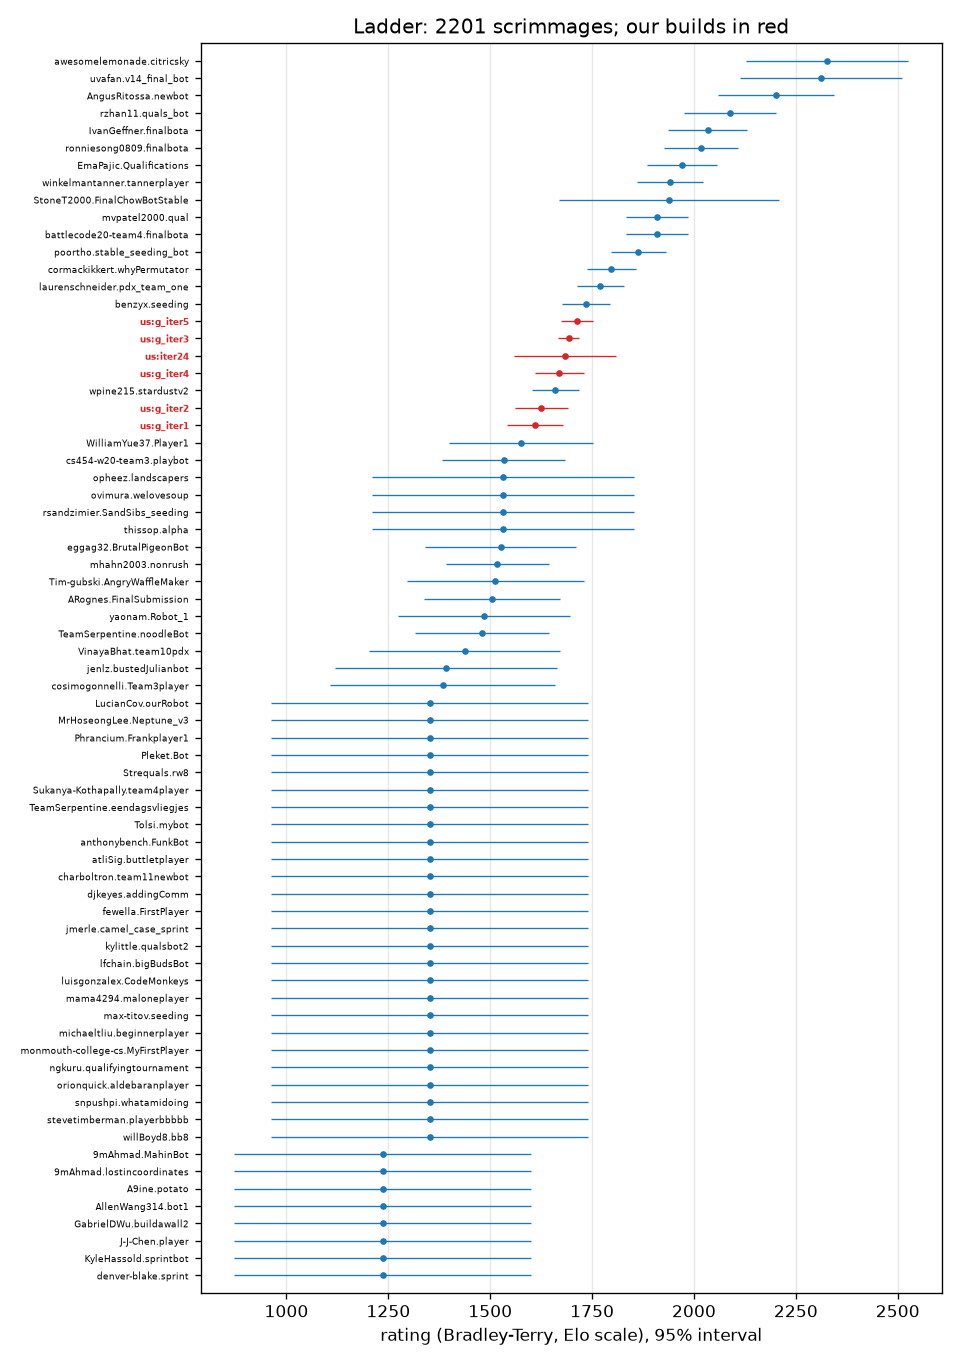
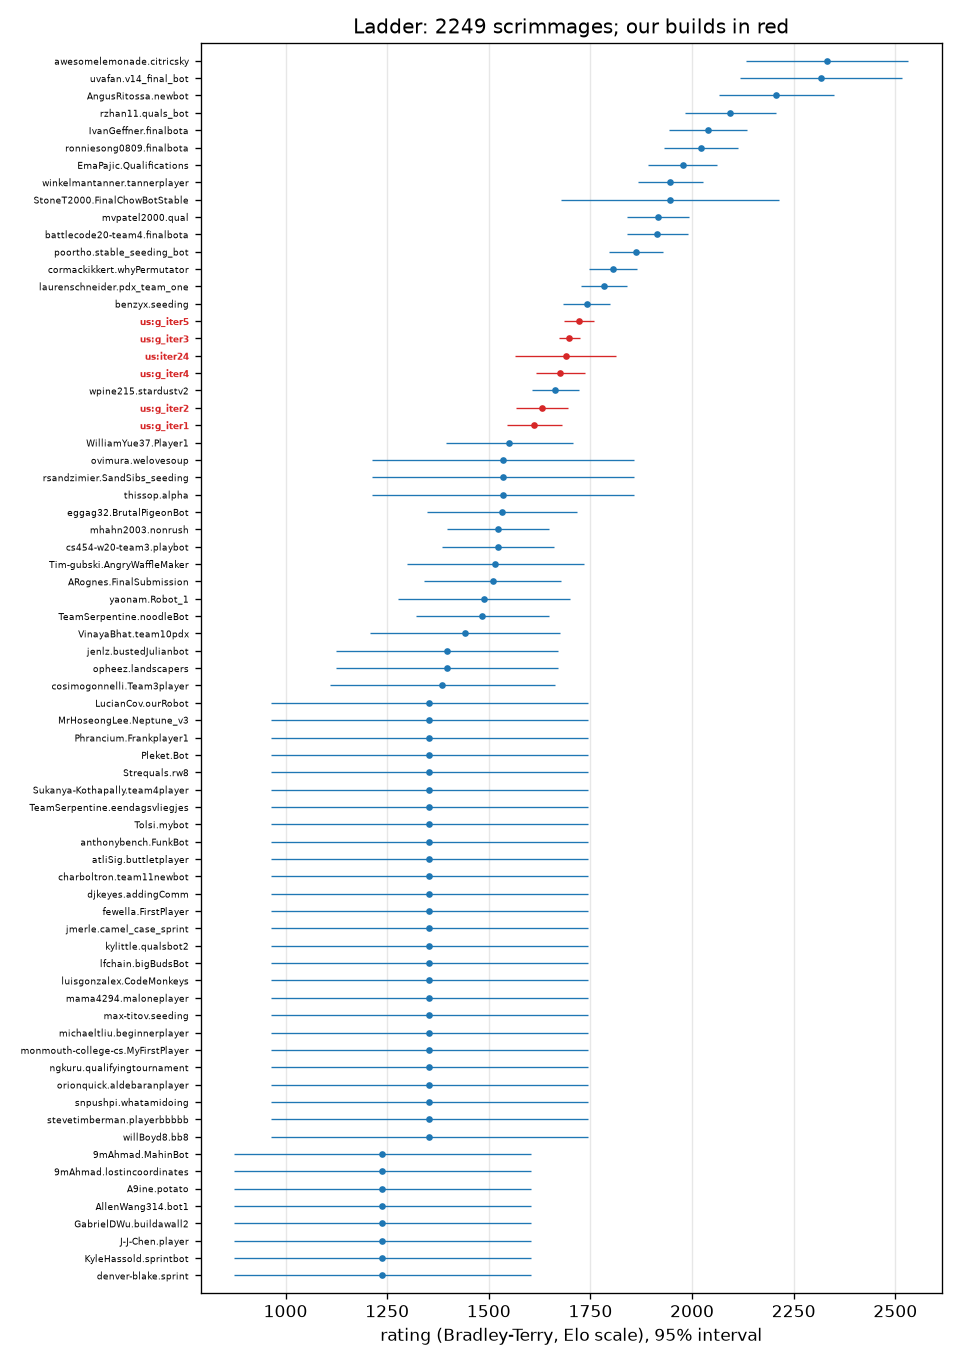
Block 44 progress files
Claude-Session: https://claude.ai/code/session_015tNyF5ucwWW1mudpEQTT25

diff --git a/progress/ELO.md b/progress/ELO.md
@@ -1,88 +1,88 @@
 # Ladder
 
-2201 scrimmages (ours only), rated by a batch Bradley-Terry fit on the Elo scale (`tools/elolib.py`); each of our builds is its own player. 65 of 65 ladder bots met.
+2249 scrimmages (ours only), rated by a batch Bradley-Terry fit on the Elo scale (`tools/elolib.py`); each of our builds is its own player. 65 of 65 ladder bots met.
 
 Our builds (rating +- 95%; field score = expected score against every ladder bot, one game each):
 
 | build | rating | rank | games | record | field score |
 |---|---|---|---|---|---|
-| g_iter5 | 1714 +- 40 | 16 of 71 | 432 | 221-211 | 70.7% |
-| g_iter3 | 1692 +- 27 | 17 of 71 | 1116 | 244-872 | 69.2% |
-| iter24 | 1684 +- 124 | 18 of 71 | 48 | 11-37 | 68.5% |
-| g_iter4 | 1670 +- 60 | 19 of 71 | 228 | 46-182 | 67.4% |
-| g_iter2 | 1625 +- 64 | 21 of 71 | 204 | 47-157 | 63.8% |
-| g_iter1 | 1610 +- 68 | 22 of 71 | 173 | 97-76 | 62.5% |
+| g_iter5 | 1722 +- 37 | 16 of 71 | 480 | 250-230 | 71.3% |
+| g_iter3 | 1698 +- 27 | 17 of 71 | 1116 | 244-872 | 69.6% |
+| iter24 | 1689 +- 124 | 18 of 71 | 48 | 11-37 | 68.9% |
+| g_iter4 | 1675 +- 60 | 19 of 71 | 228 | 46-182 | 67.9% |
+| g_iter2 | 1630 +- 65 | 21 of 71 | 204 | 47-157 | 64.3% |
+| g_iter1 | 1612 +- 68 | 22 of 71 | 173 | 97-76 | 62.7% |
 
 | rank | player | rating | +- 95% | games | W-L |
 |---|---|---|---|---|---|
-| 1 | awesomelemonade.citricsky | 2327 | 199 | 124 | 122-2 |
-| 2 | uvafan.v14_final_bot | 2312 | 199 | 114 | 112-2 |
-| 3 | AngusRitossa.newbot | 2202 | 143 | 124 | 119-5 |
-| 4 | rzhan11.quals_bot | 2089 | 113 | 113 | 104-9 |
-| 5 | IvanGeffner.finalbota | 2034 | 97 | 119 | 106-13 |
-| 6 | ronniesong0809.finalbota | 2017 | 91 | 124 | 109-15 |
-| 7 | EmaPajic.Qualifications | 1971 | 85 | 118 | 100-18 |
-| 8 | winkelmantanner.tannerplayer | 1940 | 80 | 118 | 97-21 |
-| 9 | StoneT2000.FinalChowBotStable | 1939 | 269 | 9 | 8-1 |
-| 10 | mvpatel2000.qual | 1910 | 77 | 117 | 93-24 |
-| 11 | battlecode20-team4.finalbota | 1909 | 75 | 121 | 96-25 |
-| 12 | poortho.stable_seeding_bot | 1864 | 68 | 128 | 95-33 |
-| 13 | cormackikkert.whyPermutator | 1797 | 60 | 143 | 94-49 |
-| 14 | laurenschneider.pdx_team_one | 1770 | 58 | 145 | 90-55 |
-| 15 | benzyx.seeding | 1736 | 59 | 134 | 77-57 |
-| 16 | **us:g_iter5** | 1714 | 40 | 432 | 221-211 |
-| 17 | **us:g_iter3** | 1692 | 27 | 1116 | 244-872 |
-| 18 | **us:iter24** | 1684 | 124 | 48 | 11-37 |
-| 19 | **us:g_iter4** | 1670 | 60 | 228 | 46-182 |
-| 20 | wpine215.stardustv2 | 1660 | 59 | 135 | 63-72 |
-| 21 | **us:g_iter2** | 1625 | 64 | 204 | 47-157 |
-| 22 | **us:g_iter1** | 1610 | 68 | 173 | 97-76 |
-| 23 | WilliamYue37.Player1 | 1575 | 177 | 15 | 5-10 |
-| 24 | cs454-w20-team3.playbot | 1533 | 150 | 22 | 7-15 |
-| 25 | opheez.landscapers | 1532 | 322 | 3 | 1-2 |
-| 26 | ovimura.welovesoup | 1532 | 322 | 3 | 1-2 |
-| 27 | rsandzimier.SandSibs_seeding | 1532 | 322 | 3 | 1-2 |
-| 28 | thissop.alpha | 1532 | 322 | 3 | 1-2 |
-| 29 | eggag32.BrutalPigeonBot | 1526 | 185 | 15 | 4-11 |
-| 30 | mhahn2003.nonrush | 1518 | 126 | 33 | 10-23 |
-| 31 | Tim-gubski.AngryWaffleMaker | 1513 | 217 | 9 | 3-6 |
-| 32 | ARognes.FinalSubmission | 1504 | 168 | 19 | 5-14 |
-| 33 | yaonam.Robot_1 | 1485 | 211 | 10 | 3-7 |
-| 34 | TeamSerpentine.noodleBot | 1479 | 164 | 21 | 5-16 |
-| 35 | VinayaBhat.team10pdx | 1437 | 234 | 9 | 2-7 |
-| 36 | jenlz.bustedJulianbot | 1391 | 272 | 9 | 1-8 |
-| 37 | cosimogonnelli.Team3player | 1383 | 277 | 7 | 1-6 |
-| 38 | LucianCov.ourRobot | 1351 | 389 | 3 | 0-3 |
-| 39 | MrHoseongLee.Neptune_v3 | 1351 | 389 | 3 | 0-3 |
-| 40 | Phrancium.Frankplayer1 | 1351 | 389 | 3 | 0-3 |
-| 41 | Pleket.Bot | 1351 | 389 | 3 | 0-3 |
-| 42 | Strequals.rw8 | 1351 | 389 | 3 | 0-3 |
-| 43 | Sukanya-Kothapally.team4player | 1351 | 389 | 3 | 0-3 |
-| 44 | TeamSerpentine.eendagsvliegjes | 1351 | 389 | 3 | 0-3 |
-| 45 | Tolsi.mybot | 1351 | 389 | 3 | 0-3 |
-| 46 | anthonybench.FunkBot | 1351 | 389 | 3 | 0-3 |
-| 47 | atliSig.buttletplayer | 1351 | 389 | 3 | 0-3 |
-| 48 | charboltron.team11newbot | 1351 | 389 | 3 | 0-3 |
-| 49 | djkeyes.addingComm | 1351 | 389 | 3 | 0-3 |
-| 50 | fewella.FirstPlayer | 1351 | 389 | 3 | 0-3 |
-| 51 | jmerle.camel_case_sprint | 1351 | 389 | 3 | 0-3 |
-| 52 | kylittle.qualsbot2 | 1351 | 389 | 3 | 0-3 |
-| 53 | lfchain.bigBudsBot | 1351 | 389 | 3 | 0-3 |
-| 54 | luisgonzalex.CodeMonkeys | 1351 | 389 | 3 | 0-3 |
-| 55 | mama4294.maloneplayer | 1351 | 389 | 3 | 0-3 |
-| 56 | max-titov.seeding | 1351 | 389 | 3 | 0-3 |
-| 57 | michaeltliu.beginnerplayer | 1351 | 389 | 3 | 0-3 |
-| 58 | monmouth-college-cs.MyFirstPlayer | 1351 | 389 | 3 | 0-3 |
-| 59 | ngkuru.qualifyingtournament | 1351 | 389 | 3 | 0-3 |
-| 60 | orionquick.aldebaranplayer | 1351 | 389 | 3 | 0-3 |
-| 61 | snpushpi.whatamidoing | 1351 | 389 | 3 | 0-3 |
-| 62 | stevetimberman.playerbbbbb | 1351 | 389 | 3 | 0-3 |
-| 63 | willBoyd8.bb8 | 1351 | 389 | 3 | 0-3 |
-| 64 | 9mAhmad.MahinBot | 1236 | 364 | 7 | 0-7 |
-| 65 | 9mAhmad.lostincoordinates | 1236 | 364 | 7 | 0-7 |
-| 66 | A9ine.potato | 1236 | 364 | 7 | 0-7 |
-| 67 | AllenWang314.bot1 | 1236 | 364 | 7 | 0-7 |
-| 68 | GabrielDWu.buildawall2 | 1236 | 364 | 7 | 0-7 |
-| 69 | J-J-Chen.player | 1236 | 364 | 7 | 0-7 |
-| 70 | KyleHassold.sprintbot | 1236 | 364 | 7 | 0-7 |
-| 71 | denver-blake.sprint | 1236 | 364 | 7 | 0-7 |
+| 1 | awesomelemonade.citricsky | 2333 | 199 | 124 | 122-2 |
+| 2 | uvafan.v14_final_bot | 2318 | 199 | 114 | 112-2 |
+| 3 | AngusRitossa.newbot | 2208 | 143 | 124 | 119-5 |
+| 4 | rzhan11.quals_bot | 2094 | 113 | 113 | 104-9 |
+| 5 | IvanGeffner.finalbota | 2039 | 97 | 119 | 106-13 |
+| 6 | ronniesong0809.finalbota | 2023 | 91 | 124 | 109-15 |
+| 7 | EmaPajic.Qualifications | 1977 | 85 | 118 | 100-18 |
+| 8 | winkelmantanner.tannerplayer | 1946 | 81 | 118 | 97-21 |
+| 9 | StoneT2000.FinalChowBotStable | 1946 | 269 | 9 | 8-1 |
+| 10 | mvpatel2000.qual | 1916 | 77 | 117 | 93-24 |
+| 11 | battlecode20-team4.finalbota | 1915 | 75 | 121 | 96-25 |
+| 12 | poortho.stable_seeding_bot | 1862 | 66 | 134 | 98-36 |
+| 13 | cormackikkert.whyPermutator | 1805 | 59 | 149 | 98-51 |
+| 14 | laurenschneider.pdx_team_one | 1784 | 57 | 151 | 95-56 |
+| 15 | benzyx.seeding | 1741 | 58 | 140 | 80-60 |
+| 16 | **us:g_iter5** | 1722 | 37 | 480 | 250-230 |
+| 17 | **us:g_iter3** | 1698 | 27 | 1116 | 244-872 |
+| 18 | **us:iter24** | 1689 | 124 | 48 | 11-37 |
+| 19 | **us:g_iter4** | 1675 | 60 | 228 | 46-182 |
+| 20 | wpine215.stardustv2 | 1664 | 57 | 141 | 65-76 |
+| 21 | **us:g_iter2** | 1630 | 65 | 204 | 47-157 |
+| 22 | **us:g_iter1** | 1612 | 68 | 173 | 97-76 |
+| 23 | WilliamYue37.Player1 | 1551 | 157 | 21 | 6-15 |
+| 24 | ovimura.welovesoup | 1535 | 323 | 3 | 1-2 |
+| 25 | rsandzimier.SandSibs_seeding | 1535 | 323 | 3 | 1-2 |
+| 26 | thissop.alpha | 1535 | 323 | 3 | 1-2 |
+| 27 | eggag32.BrutalPigeonBot | 1532 | 186 | 15 | 4-11 |
+| 28 | mhahn2003.nonrush | 1523 | 126 | 33 | 10-23 |
+| 29 | cs454-w20-team3.playbot | 1523 | 138 | 28 | 8-20 |
+| 30 | Tim-gubski.AngryWaffleMaker | 1516 | 217 | 9 | 3-6 |
+| 31 | ARognes.FinalSubmission | 1510 | 168 | 19 | 5-14 |
+| 32 | yaonam.Robot_1 | 1488 | 212 | 10 | 3-7 |
+| 33 | TeamSerpentine.noodleBot | 1484 | 165 | 21 | 5-16 |
+| 34 | VinayaBhat.team10pdx | 1441 | 234 | 9 | 2-7 |
+| 35 | jenlz.bustedJulianbot | 1396 | 273 | 9 | 1-8 |
+| 36 | opheez.landscapers | 1396 | 273 | 9 | 1-8 |
+| 37 | cosimogonnelli.Team3player | 1385 | 277 | 7 | 1-6 |
+| 38 | LucianCov.ourRobot | 1353 | 390 | 3 | 0-3 |
+| 39 | MrHoseongLee.Neptune_v3 | 1353 | 390 | 3 | 0-3 |
+| 40 | Phrancium.Frankplayer1 | 1353 | 390 | 3 | 0-3 |
+| 41 | Pleket.Bot | 1353 | 390 | 3 | 0-3 |
+| 42 | Strequals.rw8 | 1353 | 390 | 3 | 0-3 |
+| 43 | Sukanya-Kothapally.team4player | 1353 | 390 | 3 | 0-3 |
+| 44 | TeamSerpentine.eendagsvliegjes | 1353 | 390 | 3 | 0-3 |
+| 45 | Tolsi.mybot | 1353 | 390 | 3 | 0-3 |
+| 46 | anthonybench.FunkBot | 1353 | 390 | 3 | 0-3 |
+| 47 | atliSig.buttletplayer | 1353 | 390 | 3 | 0-3 |
+| 48 | charboltron.team11newbot | 1353 | 390 | 3 | 0-3 |
+| 49 | djkeyes.addingComm | 1353 | 390 | 3 | 0-3 |
+| 50 | fewella.FirstPlayer | 1353 | 390 | 3 | 0-3 |
+| 51 | jmerle.camel_case_sprint | 1353 | 390 | 3 | 0-3 |
+| 52 | kylittle.qualsbot2 | 1353 | 390 | 3 | 0-3 |
+| 53 | lfchain.bigBudsBot | 1353 | 390 | 3 | 0-3 |
+| 54 | luisgonzalex.CodeMonkeys | 1353 | 390 | 3 | 0-3 |
+| 55 | mama4294.maloneplayer | 1353 | 390 | 3 | 0-3 |
+| 56 | max-titov.seeding | 1353 | 390 | 3 | 0-3 |
+| 57 | michaeltliu.beginnerplayer | 1353 | 390 | 3 | 0-3 |
+| 58 | monmouth-college-cs.MyFirstPlayer | 1353 | 390 | 3 | 0-3 |
+| 59 | ngkuru.qualifyingtournament | 1353 | 390 | 3 | 0-3 |
+| 60 | orionquick.aldebaranplayer | 1353 | 390 | 3 | 0-3 |
+| 61 | snpushpi.whatamidoing | 1353 | 390 | 3 | 0-3 |
+| 62 | stevetimberman.playerbbbbb | 1353 | 390 | 3 | 0-3 |
+| 63 | willBoyd8.bb8 | 1353 | 390 | 3 | 0-3 |
+| 64 | 9mAhmad.MahinBot | 1238 | 364 | 7 | 0-7 |
+| 65 | 9mAhmad.lostincoordinates | 1238 | 364 | 7 | 0-7 |
+| 66 | A9ine.potato | 1238 | 364 | 7 | 0-7 |
+| 67 | AllenWang314.bot1 | 1238 | 364 | 7 | 0-7 |
+| 68 | GabrielDWu.buildawall2 | 1238 | 364 | 7 | 0-7 |
+| 69 | J-J-Chen.player | 1238 | 364 | 7 | 0-7 |
+| 70 | KyleHassold.sprintbot | 1238 | 364 | 7 | 0-7 |
+| 71 | denver-blake.sprint | 1238 | 364 | 7 | 0-7 |

diff --git a/progress/ONSET.md b/progress/ONSET.md
@@ -1,6 +1,6 @@
 # Which metric starts predicting the result first
 
-44 games, 28 wins. Noise floor about 0.30; a correlation inside that band is not evidence.
+45 games, 28 wins. Noise floor about 0.30; a correlation inside that band is not evidence.
 
 Every metric is oriented so **higher is better for us**, so a positive correlation always means
 "this being better goes with winning". `~avg` is the running mean over all rounds so far rather than
@@ -12,46 +12,46 @@ See `progress/METRICS.md` for how each quantity is computed.
 
 | onset | anti | metric | peak corr | r100 | r200 | r300 | r400 | r600 | r900 |
 |---|---|---|---|---|---|---|---|---|---|
-| r150 | - | worth (us-them) | +0.66 | +0.19 | +0.40 | +0.50 | +0.51 | +0.65 | +0.63 |
-| r200 | - | landscapers (us-them) | +0.55 | +0.05 | +0.31 | +0.31 | +0.34 | +0.50 | +0.55 |
-| r200 | - | robots (us-them) | +0.71 | +0.18 | +0.33 | +0.48 | +0.61 | +0.68 | +0.68 |
-| r200 | - | spawned (us-them) | +0.70 | +0.18 | +0.32 | +0.38 | +0.53 | +0.64 | +0.70 |
-| r200 | - | worth (us-them) ~avg | +0.64 | +0.16 | +0.33 | +0.40 | +0.45 | +0.55 | +0.62 |
-| r250 | - | mines (us-them) | +0.63 | +0.11 | +0.30 | +0.34 | +0.40 | +0.52 | +0.58 |
-| r300 | - | died (us-them) [inverted] | +0.34 | . | +0.21 | +0.31 | +0.25 | +0.28 | -0.15 |
-| r300 | - | died (us-them) [inverted] ~avg | +0.38 | . | +0.21 | +0.38 | +0.35 | +0.31 | -0.01 |
-| r300 | - | robots (us-them) ~avg | +0.69 | +0.07 | +0.25 | +0.33 | +0.45 | +0.58 | +0.69 |
-| r300 | - | units (us-them) | +0.71 | +0.09 | +0.25 | +0.40 | +0.53 | +0.62 | +0.71 |
-| r350 | - | cov (us-them) | +0.55 | +0.10 | +0.13 | +0.23 | +0.36 | +0.47 | +0.55 |
-| r350 | - | miners (us-them) | +0.46 | +0.04 | +0.01 | +0.21 | +0.37 | +0.41 | +0.36 |
-| r350 | - | spawned (us-them) ~avg | +0.68 | +0.07 | +0.24 | +0.30 | +0.39 | +0.51 | +0.65 |
-| r350 | - | units (us-them) ~avg | +0.71 | +0.01 | +0.17 | +0.26 | +0.37 | +0.52 | +0.68 |
-| r400 | - | drones (us-them) | +0.56 | +0.15 | +0.14 | +0.21 | +0.31 | +0.39 | +0.55 |
-| r400 | - | mines (us-them) ~avg | +0.55 | +0.06 | +0.22 | +0.28 | +0.32 | +0.42 | +0.49 |
-| r450 | - | landscapers (us-them) ~avg | +0.56 | +0.07 | +0.24 | +0.26 | +0.29 | +0.43 | +0.56 |
-| r500 | - | cov (us-them) ~avg | +0.54 | +0.15 | +0.13 | +0.18 | +0.26 | +0.37 | +0.50 |
-| r500 | - | digs (us-them) | +0.51 | +0.09 | +0.18 | +0.25 | +0.27 | +0.40 | +0.51 |
-| r500 | - | dirtDeps (us-them) | +0.49 | +0.10 | +0.18 | +0.24 | +0.27 | +0.40 | +0.49 |
-| r500 | - | vaporators (us-them) | +0.47 | +0.17 | +0.20 | +0.13 | +0.19 | +0.45 | +0.34 |
-| r600 | - | vaporators (us-them) ~avg | +0.43 | +0.17 | +0.21 | +0.16 | +0.17 | +0.33 | +0.41 |
-| r650 | - | digs (us-them) ~avg | +0.45 | +0.07 | +0.15 | +0.21 | +0.23 | +0.30 | +0.39 |
-| r650 | - | dirtDeps (us-them) ~avg | +0.44 | +0.08 | +0.16 | +0.22 | +0.24 | +0.30 | +0.37 |
-| r650 | - | drones (us-them) ~avg | +0.52 | +0.15 | +0.17 | +0.19 | +0.25 | +0.29 | +0.44 |
-| r650 | - | miners (us-them) ~avg | +0.41 | -0.05 | -0.05 | +0.04 | +0.18 | +0.30 | +0.36 |
-| r700 | - | moves (us-them) | +0.60 | +0.07 | +0.00 | +0.07 | +0.15 | +0.26 | +0.48 |
-| r800 | - | pickups (us-them) | +0.39 | . | +0.03 | -0.00 | +0.03 | +0.26 | +0.33 |
-| r900 | - | moves (us-them) ~avg | +0.49 | +0.15 | -0.01 | +0.03 | +0.08 | +0.16 | +0.32 |
-| r1100 | - | pickups (us-them) ~avg | +0.32 | . | -0.02 | -0.04 | -0.04 | +0.10 | +0.25 |
-| - | - | aba (us-them) [inverted] | -0.26 | -0.18 | -0.11 | -0.07 | +0.02 | -0.11 | -0.08 |
-| - | - | aba (us-them) [inverted] ~avg | -0.20 | -0.18 | -0.12 | -0.12 | -0.03 | -0.07 | -0.06 |
+| r100 | - | pickups (us-them) | +0.53 | +0.32 | +0.22 | +0.31 | +0.40 | +0.45 | +0.52 |
+| r100 | - | pickups (us-them) ~avg | +0.51 | +0.32 | +0.28 | +0.30 | +0.36 | +0.44 | +0.50 |
+| r200 | - | mines (us-them) | +0.46 | +0.06 | +0.34 | +0.36 | +0.37 | +0.42 | +0.46 |
+| r200 | - | netguns (us-them) | +0.39 | . | +0.31 | +0.39 | +0.32 | +0.32 | +0.37 |
+| r200 | - | netguns (us-them) ~avg | +0.41 | . | +0.31 | +0.36 | +0.36 | +0.35 | +0.37 |
+| r200 | - | robots (us-them) | +0.68 | -0.06 | +0.33 | +0.45 | +0.48 | +0.53 | +0.61 |
+| r200 | - | spawned (us-them) | +0.67 | -0.06 | +0.31 | +0.45 | +0.48 | +0.54 | +0.65 |
+| r200 | - | worth (us-them) | +0.44 | +0.07 | +0.44 | +0.40 | +0.41 | +0.39 | +0.34 |
+| r200 | - | worth (us-them) ~avg | +0.40 | +0.03 | +0.30 | +0.37 | +0.39 | +0.40 | +0.39 |
+| r250 | - | miners (us-them) | +0.45 | +0.10 | +0.24 | +0.45 | +0.44 | +0.31 | +0.25 |
+| r250 | - | units (us-them) | +0.67 | -0.03 | +0.23 | +0.39 | +0.45 | +0.52 | +0.62 |
+| r300 | - | mines (us-them) ~avg | +0.43 | +0.06 | +0.21 | +0.32 | +0.35 | +0.38 | +0.42 |
+| r300 | - | robots (us-them) ~avg | +0.61 | -0.14 | +0.13 | +0.34 | +0.43 | +0.49 | +0.56 |
+| r300 | - | spawned (us-them) ~avg | +0.61 | -0.14 | +0.11 | +0.34 | +0.43 | +0.49 | +0.56 |
+| r350 | - | cov (us-them) | +0.42 | -0.08 | -0.03 | +0.24 | +0.34 | +0.39 | +0.42 |
+| r350 | - | landscapers (us-them) | +0.74 | -0.20 | +0.07 | +0.20 | +0.50 | +0.65 | +0.72 |
+| r350 | - | miners (us-them) ~avg | +0.38 | -0.07 | +0.08 | +0.30 | +0.37 | +0.37 | +0.33 |
+| r350 | - | units (us-them) ~avg | +0.60 | -0.13 | +0.07 | +0.26 | +0.37 | +0.46 | +0.55 |
+| r400 | - | moves (us-them) | +0.33 | -0.05 | -0.02 | +0.21 | +0.31 | +0.31 | +0.27 |
+| r450 | - | landscapers (us-them) ~avg | +0.76 | -0.19 | -0.03 | +0.03 | +0.22 | +0.55 | +0.72 |
+| r500 | - | digs (us-them) | +0.75 | -0.05 | +0.01 | +0.04 | +0.16 | +0.58 | +0.72 |
+| r500 | - | dirtDeps (us-them) | +0.74 | +0.04 | +0.00 | +0.03 | +0.13 | +0.56 | +0.71 |
+| r550 | - | cov (us-them) ~avg | +0.38 | -0.11 | -0.08 | +0.09 | +0.21 | +0.33 | +0.38 |
+| r600 | - | digs (us-them) ~avg | +0.73 | -0.03 | +0.00 | +0.02 | +0.09 | +0.34 | +0.65 |
+| r600 | - | dirtDeps (us-them) ~avg | +0.72 | +0.06 | -0.01 | -0.00 | +0.06 | +0.31 | +0.64 |
+| - | - | aba (us-them) [inverted] | +0.23 | +0.00 | +0.23 | +0.07 | +0.05 | +0.14 | +0.08 |
+| - | - | aba (us-them) [inverted] ~avg | +0.15 | -0.04 | +0.15 | +0.11 | +0.08 | +0.10 | +0.12 |
+| - | - | died (us-them) [inverted] | -0.25 | . | +0.20 | +0.01 | +0.03 | -0.05 | -0.15 |
+| - | - | died (us-them) [inverted] ~avg | +0.23 | . | +0.22 | +0.11 | +0.07 | +0.02 | -0.09 |
+| - | - | drones (us-them) | +0.37 | +0.37 | +0.18 | +0.16 | +0.22 | +0.24 | +0.25 |
+| - | - | drones (us-them) ~avg | +0.37 | +0.37 | +0.22 | +0.22 | +0.22 | +0.24 | +0.25 |
 | - | - | drowned (us-them) [inverted] | . | . | . | . | . | . | . |
 | - | - | drowned (us-them) [inverted] ~avg | . | . | . | . | . | . | . |
-| - | - | hqBuried (us-them) [inverted] | +0.27 | +0.19 | . | +0.27 | +0.27 | +0.18 | . |
-| - | - | hqBuried (us-them) [inverted] ~avg | +0.25 | +0.19 | +0.19 | +0.22 | +0.23 | +0.25 | +0.18 |
-| - | - | netguns (us-them) | +0.21 | . | +0.05 | -0.06 | +0.11 | +0.12 | +0.07 |
-| - | - | netguns (us-them) ~avg | +0.09 | . | +0.05 | -0.00 | +0.03 | +0.06 | +0.06 |
-| - | - | soup (us-them) | +0.29 | -0.01 | +0.06 | +0.29 | -0.04 | +0.13 | +0.18 |
-| - | - | soup (us-them) ~avg | +0.22 | +0.04 | +0.05 | +0.19 | +0.14 | +0.10 | +0.15 |
+| - | - | hqBuried (us-them) [inverted] | +0.18 | +0.18 | +0.18 | . | . | . | . |
+| - | - | hqBuried (us-them) [inverted] ~avg | +0.18 | +0.18 | +0.18 | . | . | +0.12 | +0.12 |
+| - | - | moves (us-them) ~avg | +0.30 | -0.03 | -0.03 | +0.09 | +0.21 | +0.29 | +0.28 |
+| - | - | soup (us-them) | +0.23 | +0.16 | +0.22 | -0.06 | -0.05 | -0.16 | -0.17 |
+| - | - | soup (us-them) ~avg | +0.29 | +0.17 | +0.29 | +0.15 | +0.02 | -0.08 | -0.14 |
+| - | - | vaporators (us-them) | +0.28 | +0.21 | +0.21 | +0.18 | +0.10 | +0.20 | -0.05 |
+| - | - | vaporators (us-them) ~avg | +0.25 | +0.21 | +0.21 | +0.18 | +0.15 | +0.15 | +0.10 |
 
 **Reading it.** Earliest onset is the first place to look: temporal precedence is the one causal hint a
 correlation can honestly give. Late-onset metrics are usually the scoreboard rather than the cause -- by then

diff --git a/BENCHMARK.md b/BENCHMARK.md
@@ -153,7 +153,7 @@ every recorded block; the tier is the most recent build's record against that op
 | `Tim-gubski.Yoinker` | Tim-gubski_BattleCode-2020 (c252b31) | - | - | untested |  |
 | `Tolsi.mybot` | Tolsi_my-battlecode2020-player (32cc500) | 100 | 2 | solved | 100 100 |
 | `VinayaBhat.team10pdx` | VinayaBhat_BattleCode2020 (b8a7b19) | 100 | 2 | solved | 50 100 100 |
-| `WilliamYue37.Player1` | WilliamYue37_Battlecode (63a973c) | 64 | 14 | peer | 100 64 |
+| `WilliamYue37.Player1` | WilliamYue37_Battlecode (63a973c) | 70 | 20 | peer | 100 70 |
 | `anthonybench.FunkBot` | anthonybench_MITBattleCode-2020 (38fbb99) | 100 | 2 | solved | 100 100 |
 | `anthonybench.redemptionplayer` | anthonybench_MITBattleCode-2020 (38fbb99) | - | - | untested |  |
 | `arya-k.donothing` | arya-k_bc20 (1b969b3) | - | - | untested |  |
@@ -170,15 +170,15 @@ every recorded block; the tier is the most recent build's record against that op
 | `benzyx.espada` | benzyx_bc20-waterloo (05df2e7) | - | - | untested |  |
 | `benzyx.firstplayer` | benzyx_bc20-waterloo (05df2e7) | - | - | untested |  |
 | `benzyx.kurobot` | benzyx_bc20-waterloo (05df2e7) | - | - | untested |  |
-| `benzyx.seeding` | benzyx_bc20-waterloo (05df2e7) | 42 | 33 | target | 25 17 50 40 25 42 |
+| `benzyx.seeding` | benzyx_bc20-waterloo (05df2e7) | 44 | 39 | target | 25 17 50 40 25 44 |
 | `benzyx.tortuga` | benzyx_bc20-waterloo (05df2e7) | - | - | untested |  |
 | `charboltron.master_player` | charboltron_pdx_battlecode_2020_team_11 (f78f1e3) | - | - | untested |  |
 | `charboltron.team11newbot` | charboltron_pdx_battlecode_2020_team_11 (f78f1e3) | 100 | 2 | solved | 100 100 |
-| `cormackikkert.whyPermutator` | cormackikkert_battlecode2020 (4d230c4) | 33 | 36 | target | 25 17 38 40 25 33 |
+| `cormackikkert.whyPermutator` | cormackikkert_battlecode2020 (4d230c4) | 33 | 42 | target | 25 17 38 40 25 33 |
 | `cormackikkert.whyPermutatorOld` | cormackikkert_battlecode2020 (4d230c4) | - | - | untested |  |
 | `cosimogonnelli.Team3player` | cosimogonnelli_CS454-554-SE (d7dc657) | 100 | 2 | peer(>90 once) | 80 100 |
 | `cs454-w20-team3.oldbot` | cs454-w20-team3_team3-bot (502c334) | - | - | untested |  |
-| `cs454-w20-team3.playbot` | cs454-w20-team3_team3-bot (502c334) | 75 | 12 | peer | 25 83 75 |
+| `cs454-w20-team3.playbot` | cs454-w20-team3_team3-bot (502c334) | 78 | 18 | peer | 25 83 78 |
 | `cs454-w20-team3.team3player` | cs454-w20-team3_team3-bot (502c334) | - | - | untested |  |
 | `denver-blake.sprint` | denver-blake_Battlecode2020 (1b4a631) | 100 | 2 | solved | 100 100 |
 | `djkeyes.addingComm` | djkeyes_battlecode20-scaffold (189c057) | 100 | 2 | solved | 100 100 |
@@ -202,7 +202,7 @@ every recorded block; the tier is the most recent build's record against that op
 | `kylittle.deliriumv1` | kylittle_DeliriumBattlecode (17a94dd) | - | - | untested |  |
 | `kylittle.qualsbot` | kylittle_DeliriumBattlecode (17a94dd) | - | - | untested |  |
 | `kylittle.qualsbot2` | kylittle_DeliriumBattlecode (17a94dd) | 100 | 2 | solved | 100 100 |
-| `laurenschneider.pdx_team_one` | laurenschneider_battlecode20-PDXTeamOne (2965376) | 47 | 34 | target | 0 50 39 14 0 47 |
+| `laurenschneider.pdx_team_one` | laurenschneider_battlecode20-PDXTeamOne (2965376) | 42 | 40 | target | 0 50 39 14 0 42 |
 | `lfchain.bigBudsBot` | lfchain_Battlecode2020 (b026153) | 100 | 2 | solved | 100 100 |
 | `lfchain.fBot` | lfchain_Battlecode2020 (b026153) | - | - | untested |  |
 | `lfchain.jBot` | lfchain_Battlecode2020 (b026153) | - | - | untested |  |
@@ -256,7 +256,7 @@ every recorded block; the tier is the most recent build's record against that op
 | `ngkuru.mainplayer` | ngkuru_battlecode20-players (7f64cd6) | - | - | untested |  |
 | `ngkuru.qualifyingtournament` | ngkuru_battlecode20-players (7f64cd6) | 100 | 2 | solved | 100 100 |
 | `ngkuru.sprinttournament` | ngkuru_battlecode20-players (7f64cd6) | - | - | untested |  |
-| `opheez.landscapers` | opheez_battlecode2020new (4547db7) | 50 | 2 | peer | 100 50 |
+| `opheez.landscapers` | opheez_battlecode2020new (4547db7) | 88 | 8 | peer | 100 88 |
 | `opheez.lectureplayer` | opheez_battlecode2020new (4547db7) | - | - | untested |  |
 | `orionquick.aldebaranplayer` | orionquick_battlecode20-scaffold-master (f45f2ee) | 100 | 2 | solved | 100 100 |
 | `orionquick.droneplayer` | orionquick_battlecode20-scaffold-master (f45f2ee) | - | - | untested |  |
@@ -279,7 +279,7 @@ every recorded block; the tier is the most recent build's record against that op
 | `poortho.rush` | poortho_battlecode-2020 (ebbd61e) | - | - | untested |  |
 | `poortho.rush_bot` | poortho_battlecode-2020 (ebbd61e) | - | - | untested |  |
 | `poortho.stable_miner1` | poortho_battlecode-2020 (ebbd61e) | - | - | untested |  |
-| `poortho.stable_seeding_bot` | poortho_battlecode-2020 (ebbd61e) | 29 | 24 | target | 0 17 27 31 0 29 |
+| `poortho.stable_seeding_bot` | poortho_battlecode-2020 (ebbd61e) | 33 | 30 | target | 0 17 27 31 0 33 |
 | `ps789.dennisTestPlayer` | ps789_AZBattlecode (f1d54ab) | - | - | untested |  |
 | `ps789.phillipTestPlayer` | ps789_AZBattlecode (f1d54ab) | - | - | untested |  |
 | `ronniesong0809.finalbota` | ronniesong0809_battlecode20-RADS (1cee065) | 0 | 11 | locked | 0 18 15 7 0 0 |
@@ -327,7 +327,7 @@ every recorded block; the tier is the most recent build's record against that op
 | `willBoyd8.mouse` | willBoyd8_BattleDroid (4b1d4ad) | - | - | untested |  |
 | `winkelmantanner.tannerplayer` | winkelmantanner_battlecode2020_the-levee-builders (7f49f11) | 36 | 11 | target | 0 25 15 23 0 36 |
 | `wpine215.stardustv1` | wpine215_battlecode (d570d57) | - | - | untested |  |
-| `wpine215.stardustv2` | wpine215_battlecode (d570d57) | 67 | 24 | peer | 0 30 50 65 100 67 |
+| `wpine215.stardustv2` | wpine215_battlecode (d570d57) | 67 | 30 | peer | 0 30 50 65 100 67 |
 | `yaonam.Robot_1` | yaonam_battlecode2020 (bb363f5) | 100 | 2 | peer(>90 once) | 62 100 |
 
 285 bot packages from 68 repositories.
